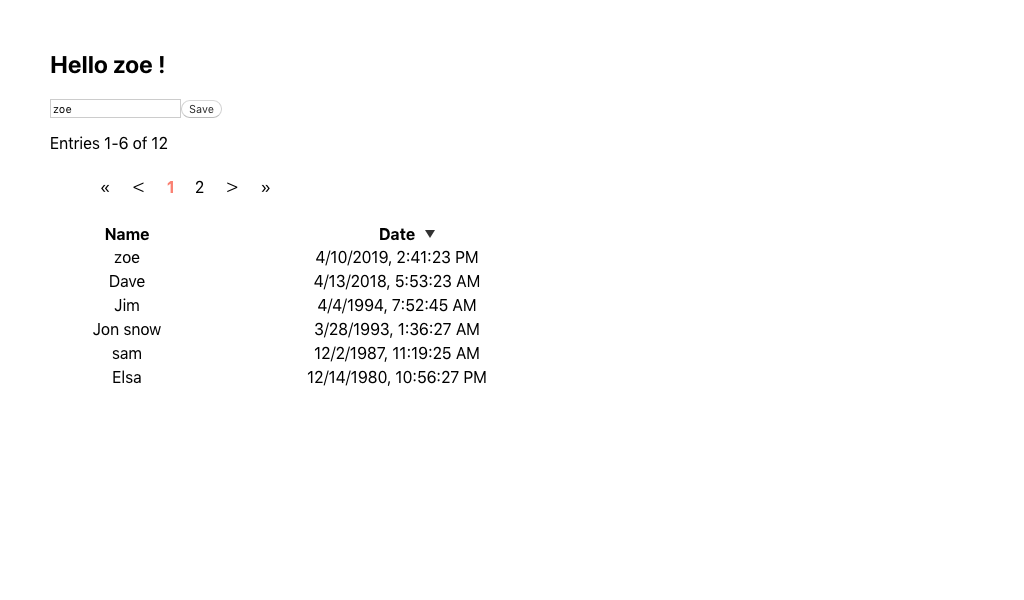
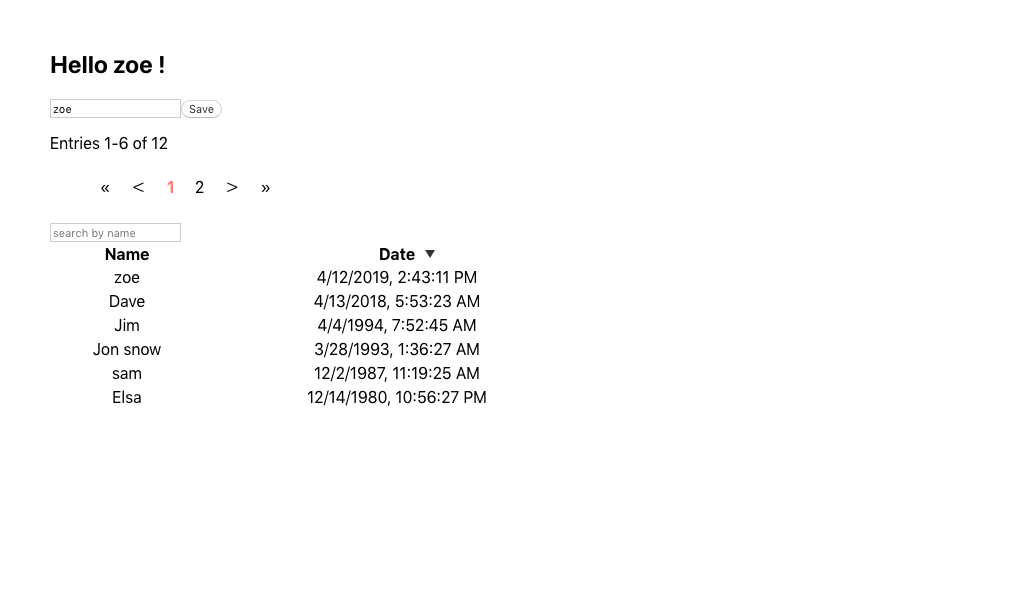
fix the test

Changed region(s): [[0.2812, 0.36, 0.4688, 0.69], [0.0625, 0.36, 0.1562, 0.69]]

diff --git a/react exercises/my-app/src/components/Search.js b/react exercises/my-app/src/components/Search.js
@@ -1,35 +1,52 @@
 import React from 'react'
-import { withState, compose, withHandlers } from 'recompose';
+import { withState, compose, withHandlers, withProps } from 'recompose';
 
 function Search(props){
-	const {preNames, setPreNames,onInputChange, copy, disable} = props
-	return 	<div>
-				<input
-					type="text"
-					placeholder="search by name"
-					onChange={onInputChange}
-					disabled={disable}
-				/>
-			</div>
+	const { onInputChange, searchDisabled } = props
+	return  <div>
+		<input
+			type="text"
+			placeholder="search by name"
+			onChange={onInputChange}
+			disabled={searchDisabled}
+		/>
+	</div>
 }
 
-const withKeyword = withState('keyword', 'setKeyword', '');
+function debounce(callback, timeoutMs) {
+	let timeoutId;
+
+	return function () {
+		if (timeoutId) {
+			clearTimeout(timeoutId);
+		}
+		timeoutId = setTimeout(() => callback.apply(this, arguments), timeoutMs);
+	};
+}
+
 export default compose(
-	withKeyword,
-	withHandlers({
-		onInputChange: ({keyword, setKeyword, preNames, setPreNames, copy}) => (e) => {
-
-			keyword = e.target.value.trim().toLowerCase()
-			if (keyword !== ''){
-				setTimeout( function(){
-					setPreNames(copy.filter(person => person.name.toLowerCase().includes(keyword)))
-				}, 1000)
+	withProps({
+		debounceSearch: debounce((props, keyword) => {
+			const { setPreNames, copy } = props;
+			console.log('filter names !', new Date());
+			if (typeof keyword === 'string' && keyword.length > 0) {
+				setPreNames(copy.filter(person => person.name.toLowerCase().includes(keyword)));
 			} else {
-				setTimeout( function(){
-					setPreNames(copy)
-				}, 200)				
+				setPreNames(copy);
 			}
-			}
-
+		}, 500),
+	}),
+	withHandlers({
+		onInputChange: (props) => (e) => {
+			console.log(props)
+			const keyword = e.target.value.trim().toLowerCase();
+			props.debounceSearch(props, keyword);
+		},
 	}),
 )(Search);
+
+
+
+
+
+

diff --git a/react exercises/my-app/src/App.js b/react exercises/my-app/src/App.js
@@ -29,8 +29,8 @@ class App extends React.Component {
 			setCurPage,
 			copy,
 			setCopy,
-			disable,
-			setDisable,
+			searchDisabled,
+			setSearchDisabled,
 		} = props;
 		const totalItemsCount = preNames.length;
 		const itemsPerPage = 6;
@@ -60,7 +60,7 @@ class App extends React.Component {
 					preNames={preNames}
 					setPreNames={setPreNames}
 					copy={copy}
-					disable={disable}
+					searchDisabled={searchDisabled}
 				/>
 
 				<PreviousNamesTable
@@ -78,7 +78,7 @@ class App extends React.Component {
 					preNames={preNames}
 					copy={copy}
 					setCopy={setCopy}
-					setDisable={setDisable}
+					setSearchDisabled={setSearchDisabled}
 				/>
 			</div>
 		)
@@ -165,7 +165,7 @@ const withCopy = withState('copy', 'setCopy', sortByDate([
 		'date': 345678987654,
 	},], 'DESC'));
 
-const withDisable = withState('disable', 'setDisable', '')
+const withSearchDisabled = withState('searchDisabled', 'setSearchDisabled', '')
 const withEditingIndex = withState('editingIndex', 'setEditingIndex', -1);
 const withSort = withState('sort', 'setSort', () => ({
 	name: 'date',
@@ -177,7 +177,7 @@ const enhance = compose(
 	withName,
 	withPreNames,
 	withEditingIndex,
-	withDisable,
+	withSearchDisabled,
 	withSort,
 	withCopy,
 	withHandlers({
@@ -230,11 +230,11 @@ const enhance = compose(
 		},
 		onNameEditCancel: (props) => () => {
 			props.setEditingIndex(-1);
-			props.setDisable('')
+			props.setSearchDisabled('')
 		},
 		onNameEditClick: (props) => ({ index }) => {
 			props.setEditingIndex(index);
-			props.setDisable('disabled')
+			props.setSearchDisabled('disabled')
 		},
 		onPreNamesSortChange: (props) => ({ name, direction }) => {
 			const sortBy = name === 'name' ? sortByName : sortByDate
@@ -244,3 +244,4 @@ const enhance = compose(
 	}))
 
 export default enhance(App);
+

diff --git a/react exercises/my-app/src/components/PreviousNameRowEditable.js b/react exercises/my-app/src/components/PreviousNameRowEditable.js
@@ -2,7 +2,7 @@ import React from 'react';
 import { compose, withState, withHandlers } from 'recompose';
 
 function PreviousNameRowEditable(props){
-	const { copy, setCopy, editName, date, onCancelClick, onConfirmClick, onInputChange, setDisable} = props;
+	const { copy, setCopy, editName, date, onCancelClick, onConfirmClick, onInputChange, setSearchDisabled} = props;
 	console.log('copy:', copy)
 	return <tr>
 		<td>
@@ -31,7 +31,7 @@ export default compose(
 		},
 		onConfirmClick: (props) => () => {
 			props.onChange({'name':props.editName, 'date': props.timeStamp}, { index: props.index });
-			props.setDisable('')
+			props.setSearchDisabled('')
 		},
 		onInputChange: (props) => (event) => {
 			props.setEditName(event.currentTarget.value);

diff --git a/react exercises/my-app/src/__tests__/App.test.js b/react exercises/my-app/src/__tests__/App.test.js
@@ -2,7 +2,8 @@ import { BASE_URL, DEFAULT_TIMEOUT_MS } from '../test-config';
 import puppeteer from 'puppeteer';
 
 describe('renders without crashing with chrome', () => {
-	const inputNameSelector = '#root input[placeholder="name"]';
+	// const inputNameSelector = '#root div > input[placeholder="add a name"]';
+	const inputNameSelector = '#root > div > input';
 	const saveButtonSelector = '#root > div > button';
 	const headerSelector = '#root > div > h2';
 
@@ -127,6 +128,9 @@ describe('renders without crashing with chrome', () => {
 		expect(nameOnFirstRow).toEqual(await page.$eval('table > tbody > tr:nth-child(2) > td > a', e => {return e.innerHTML}))
 		browser.close();
 	}, DEFAULT_TIMEOUT_MS);
+
+
+
 
 });
 

diff --git a/react exercises/my-app/src/components/PreviousNamesTable.js b/react exercises/my-app/src/components/PreviousNamesTable.js
@@ -45,7 +45,7 @@ function renderItems(props) {
 		currPage,
 		copy,
 		setCopy,
-		setDisable,
+		setSearchDisabled,
 	} = props;
 	const startIndex = (currPage - 1) * itemsPerPage;
 	return props.currentPageItems.map((row, index) => {
@@ -62,7 +62,7 @@ function renderItems(props) {
 				date={formatDate(row.date)}
 				onChange={onNameChange}
 				onCancel={onEditCancel}
-				setDisable={setDisable} />;
+				setSearchDisabled={setSearchDisabled} />;
 		}
 		return <PreviousNameRowReadOnly
 			key={`${index}-${row.name}`}
